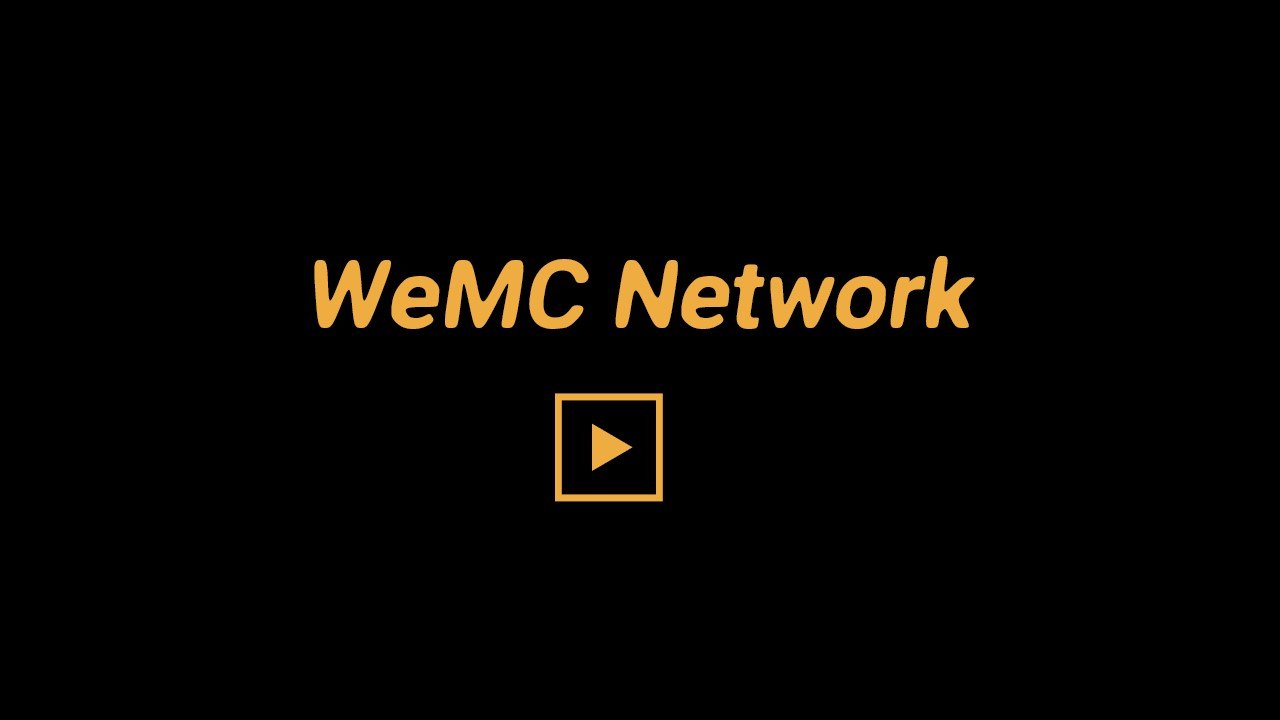
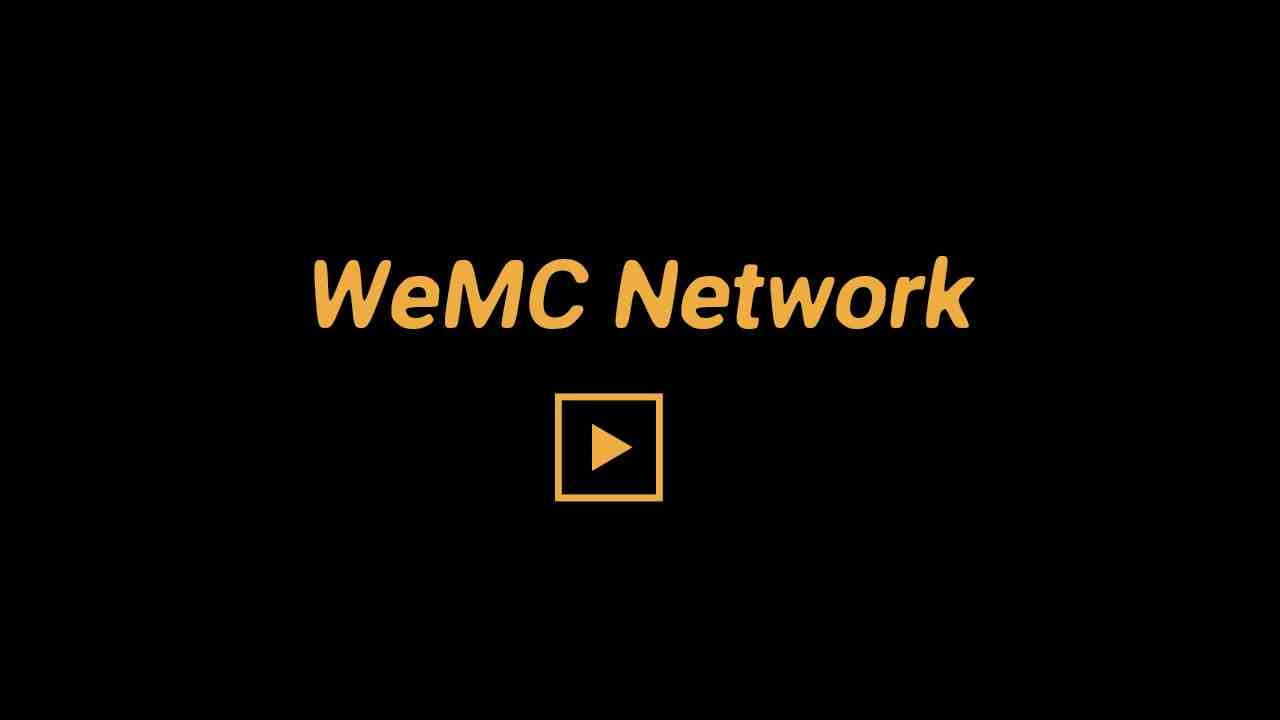
压缩图片 优化网页加载速度

diff --git a/about.html b/about.html
@@ -48,7 +48,7 @@
         <div id="loading" class="text-loading container">
             <img id="fubuki-loading" class="" src="images/fubuki_cute.gif">
             <h2>Loading...</h2>
-            <h6>首次加载时间较长，可能需要一分钟</h6>
+            <h6>首次加载时间较长，可能需要30~45秒</h6>
         </div>
     </div>
     

diff --git a/join.html b/join.html
@@ -48,7 +48,7 @@
         <div id="loading" class="text-loading container">
             <img id="fubuki-loading" class="" src="images/fubuki_cute.gif">
             <h2>Loading...</h2>
-            <h6>首次加载时间较长，可能需要一分钟</h6>
+            <h6>首次加载时间较长，可能需要30~45秒</h6>
         </div>
     </div>
     

diff --git a/rules.html b/rules.html
@@ -48,7 +48,7 @@
         <div id="loading" class="text-loading container">
             <img id="fubuki-loading" class="" src="images/fubuki_cute.gif">
             <h2>Loading...</h2>
-            <h6>首次加载时间较长，可能需要一分钟</h6>
+            <h6>首次加载时间较长，可能需要30~45秒</h6>
         </div>
     </div>
     

diff --git a/index.html b/index.html
@@ -48,7 +48,7 @@
         <div id="loading" class="text-loading container">
             <img id="fubuki-loading" class="" src="images/fubuki_cute.gif">
             <h2>Loading...</h2>
-            <h6>首次加载时间较长，可能需要一分钟</h6>
+            <h6>首次加载时间较长，可能需要30~45秒</h6>
         </div>
     </div>
 
